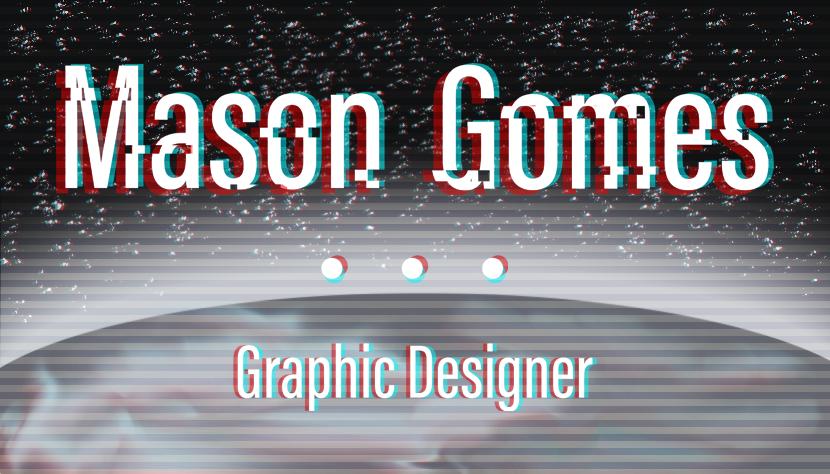
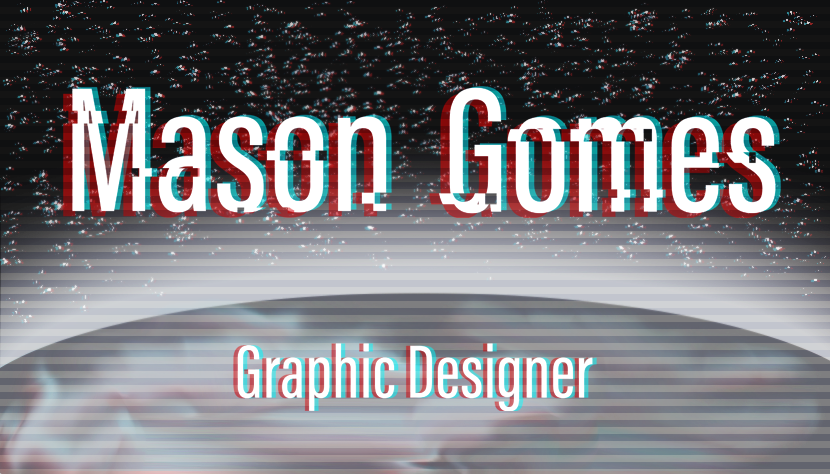
removed dots from front

diff --git a/style.css b/style.css
@@ -7,8 +7,6 @@
 
 body {
     background-color: rgb(51, 51, 51);
-    /* background-image:'glitch.gif';  */
-    /* background-repeat:repeat; */
     background-image: url('assets/glitch.gif');
   }
 
